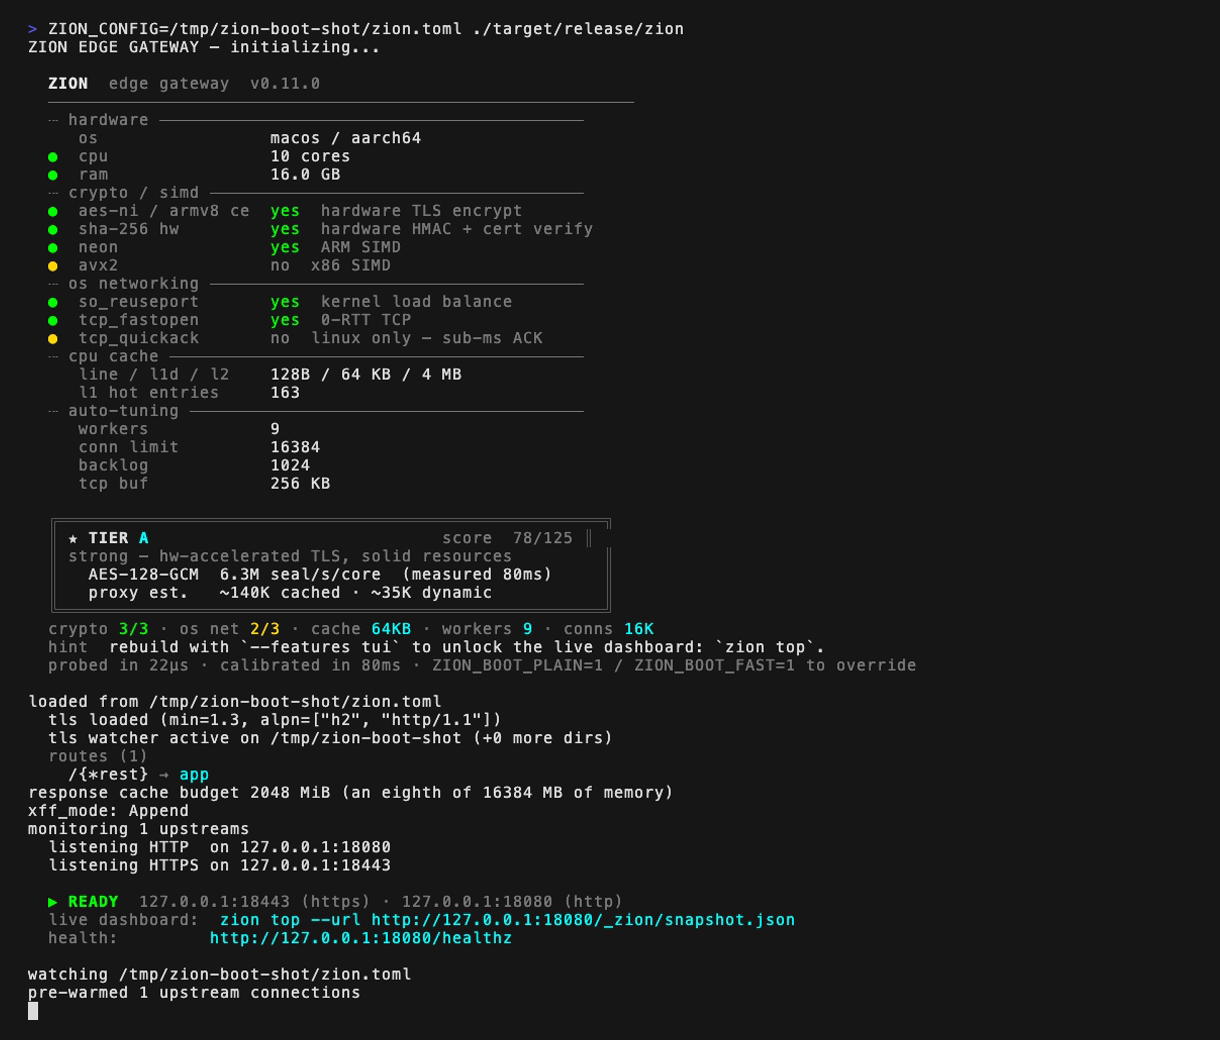
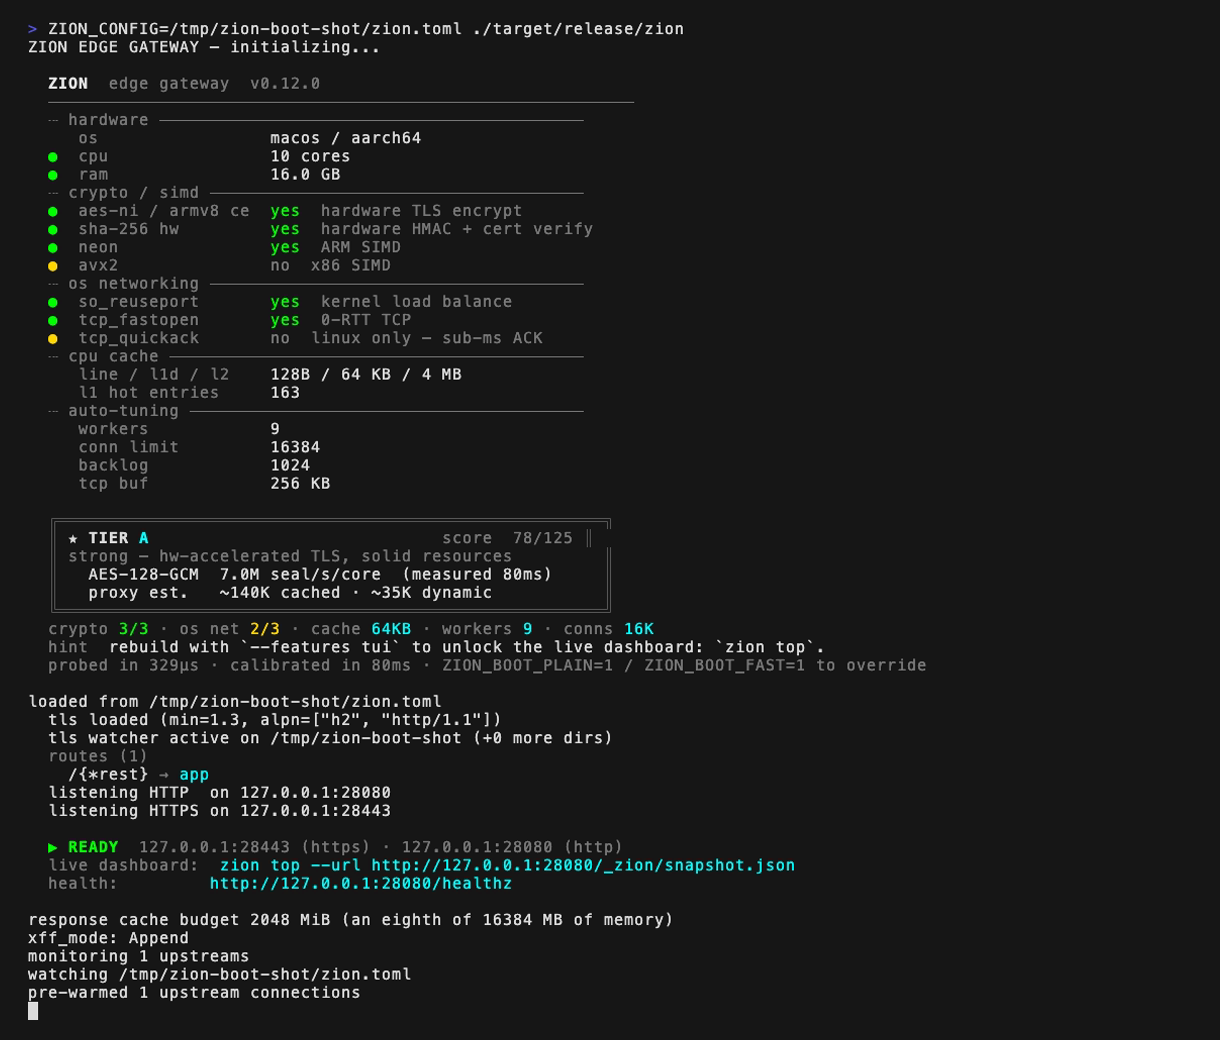
chore(release): v0.12.0 (#655)
Claude-Session: https://claude.ai/code/session_013XKgeQWDDWzaUzyphkKGAP

Changed region(s): [[0.0311, 0.7385, 0.6541, 0.9231], [0.1869, 0.6154, 0.7475, 0.6462], [0.1246, 0.6154, 0.1557, 0.6462]]

diff --git a/CHANGELOG.md b/CHANGELOG.md
@@ -4,6 +4,18 @@ All notable changes to Zion Edge Gateway are documented here.
 
 ## [Unreleased]
 
+## [0.12.0] - 2026-10-09
+
+**zion now answers 400 to an HTTP/1.1 request without `Host`, with two `Host` headers or with an invalid one: read the first upgrade note if anything of yours sends such requests.** The rest is CPU and tail latency, measured on a dedicated host against v0.11.0: serving files from disk, the access log and a proxied request cost less per request, and past 256 busy connections on a worker the extra connections are no longer served several times slower than the first 256.
+
+### Upgrade notes
+
+- **An HTTP/1.1 request without `Host`, with more than one, or with an invalid value now gets a 400 and the connection is closed** (RFC 9112 §3.2). A hand-written health probe or an old script that sends HTTP/1.1 without `Host` must add one. HTTP/1.0 may still omit it, and HTTP/2 and HTTP/3 are not affected.
+- **Headers named in a request's `Connection` header are no longer forwarded to the upstream** (RFC 9110 §7.6.1): `Connection: keep-alive, X-Remove-Me` now removes `X-Remove-Me`. If an upstream relied on receiving a header the client listed there, send it another way.
+- **Log lines reach stderr in batches, up to about 2 ms after they are logged.** A process killed outright (SIGKILL, power loss) can lose the last few lines; a clean shutdown and a panic still flush the queue first. `log_queue_lines` now bounds the lines not yet written, the batch being written included.
+- **The text log is no longer coloured when stderr is not a terminal** (or `NO_COLOR` is set). It was coloured whatever stderr was, so `docker logs`, journald and files carried escape sequences around every field; a parser that stripped them keeps working, one that matched on them needs updating. JSON logs were never coloured.
+- No setting was removed or renamed.
+
 ### Changed
 
 - **Serving files from disk (`mode = "static"`, no `precompressed`) is about a quarter cheaper per request, and steadier.** The route made seven calls to the blocking thread pool per request (canonicalize the root, canonicalize the file, stat, stat, open, read, close), and every hand-off costs more than the page-cache read it serves. It now resolves, opens and, for a plain GET of a small file, reads in one. On a single core a 28 KB page went from 114-155 µs to 88 µs of CPU per request and from 6.4-8.8k to 11.3k req/s (the old path varied 31% between two identical runs, the new one 0.3%); nginx with `open_file_cache` does the same file in 49 µs. No behaviour changes: the same checks run in the same order (inside the root, regular files only, no FIFO opened), and a request carrying `If-None-Match`, `If-Modified-Since` or `Range` still reads nothing before the validators are checked. Routes with `precompressed = true` keep their previous path.

diff --git a/docs/security/supply-chain.md b/docs/security/supply-chain.md
@@ -46,8 +46,8 @@ You need the GitHub CLI (`gh >= 2.49`) and `cosign >= 2.2`.
 
 ```bash
 # 1. Download the artifact + SHA256SUMS from the release page.
-gh release download v0.11.0 -R fabriziosalmi/zion \
-    -p 'zion-v0.11.0-x86_64-unknown-linux-musl.tar.gz' \
+gh release download v0.12.0 -R fabriziosalmi/zion \
+    -p 'zion-v0.12.0-x86_64-unknown-linux-musl.tar.gz' \
     -p 'SHA256SUMS' \
     -p 'zion-sbom.cdx.json'
 
@@ -55,7 +55,7 @@ gh release download v0.11.0 -R fabriziosalmi/zion \
 sha256sum --check --ignore-missing SHA256SUMS
 
 # 3. Verify the SLSA build provenance bound to the artifact's hash.
-gh attestation verify zion-v0.11.0-x86_64-unknown-linux-musl.tar.gz \
+gh attestation verify zion-v0.12.0-x86_64-unknown-linux-musl.tar.gz \
     --owner fabriziosalmi
 
 # Step 3 fails if:
@@ -78,7 +78,7 @@ grype zion-sbom.cdx.json
 ## Verifying a container image
 
 ```bash
-IMAGE=ghcr.io/fabriziosalmi/zion:v0.11.0
+IMAGE=ghcr.io/fabriziosalmi/zion:v0.12.0
 
 # 1. Pin to the digest immediately — tags are mutable, digests are not.
 DIGEST=$(crane digest "$IMAGE")
@@ -123,7 +123,7 @@ commit stamped into the version string (`ZION_GIT_SHA`, `ZION_COMMIT_DATE`),
 Linux musl artifact the same way:
 
 ```bash
-git checkout v0.11.0
+git checkout v0.12.0
 export SOURCE_DATE_EPOCH=$(git log -1 --pretty=%ct)
 export ZION_GIT_SHA=$(git rev-parse --short=12 HEAD)
 export ZION_COMMIT_DATE=$(git show -s --format=%cd --date=format:%Y-%m-%d HEAD)
@@ -138,12 +138,12 @@ sha256sum target/x86_64-unknown-linux-musl/release/zion
 the one inside the published archive:
 
 ```bash
-tar -xzOf zion-v0.11.0-x86_64-unknown-linux-musl.tar.gz zion | sha256sum
+tar -xzOf zion-v0.12.0-x86_64-unknown-linux-musl.tar.gz zion | sha256sum
 ```
 
 or recreate the archive with the same `tar` flags and compare it against
 `SHA256SUMS`. The toolchain is pinned end to end: Rust 1.88.0, `zig` 0.13.0 and
-`cargo-zigbuild` 0.23.4 (the versions that built v0.11.0; the workflow installs
+`cargo-zigbuild` 0.23.4 (the versions that built v0.12.0; the workflow installs
 exactly these), so a rebuild with the same versions should give the same bytes.
 
 A scheduled job, [`reproducibility.yml`](https://github.com/fabriziosalmi/zion/blob/master/.github/workflows/reproducibility.yml),

diff --git a/README.md b/README.md
@@ -321,12 +321,12 @@ Every release is signed and carries SLSA v1.0 build provenance — see
 
 ```bash
 # Binary release (Sigstore-backed provenance via gh CLI)
-gh release download v0.11.0 -R fabriziosalmi/zion -p '*x86_64-unknown-linux-musl*' -p 'SHA256SUMS'
+gh release download v0.12.0 -R fabriziosalmi/zion -p '*x86_64-unknown-linux-musl*' -p 'SHA256SUMS'
 sha256sum --check --ignore-missing SHA256SUMS
-gh attestation verify zion-v0.11.0-x86_64-unknown-linux-musl.tar.gz --owner fabriziosalmi
+gh attestation verify zion-v0.12.0-x86_64-unknown-linux-musl.tar.gz --owner fabriziosalmi
 
 # Container image (cosign keyless)
-cosign verify ghcr.io/fabriziosalmi/zion:v0.11.0 \
+cosign verify ghcr.io/fabriziosalmi/zion:v0.12.0 \
     --certificate-identity-regexp "^https://github.com/fabriziosalmi/zion/\\.github/workflows/release\\.yml@refs/tags/v" \
     --certificate-oidc-issuer "https://token.actions.githubusercontent.com"
 ```

diff --git a/docs/index.md b/docs/index.md
@@ -20,7 +20,7 @@ description: One auditable Rust binary at the edge — TLS 1.3 termination, a ze
     <aside class="ds-spec">
       <div class="cap">Specification</div>
       <dl>
-        <div class="ds-row"><dt>Version</dt><dd class="tnum">0.11.0</dd></div>
+        <div class="ds-row"><dt>Version</dt><dd class="tnum">0.12.0</dd></div>
         <div class="ds-row"><dt>Language</dt><dd>Rust · MSRV 1.82</dd></div>
         <div class="ds-row"><dt>Binary</dt><dd class="tnum">~4 MB · static</dd></div>
         <div class="ds-row"><dt>TLS proxy</dt><dd class="tnum">108<span class="u">k</span> req/s</dd></div>

diff --git a/.github/ISSUE_TEMPLATE/bug_report.md b/.github/ISSUE_TEMPLATE/bug_report.md
@@ -21,7 +21,7 @@ A clear and concise description of what you expected to happen.
 **Environment (please complete the following information):**
  - OS: [e.g. Linux, macOS]
  - Architecture: [e.g. arm64, amd64]
- - Zion Version: [e.g. 0.11.0]
+ - Zion Version: [e.g. 0.12.0]
 
 **Additional context**
 Add any other context about the problem here (e.g. logs with `RUST_LOG=trace`, upstream backend type like Go/Node).

diff --git a/SECURITY.md b/SECURITY.md
@@ -8,7 +8,7 @@ the current version.
 
 | Version | Supported |
 | ------- | --------- |
-| < 0.11.0 | No |
+| < 0.12.0 | No |
 
 Everything at or above that line is the current release. Stated as a single
 threshold on purpose — the previous wording carried a second, hardcoded row

diff --git a/docs/deploy/hot-reload.md b/docs/deploy/hot-reload.md
@@ -135,7 +135,7 @@ Two surfaces report the reload state:
 
   ```json
   {
-    "version": "0.11.0",
+    "version": "0.12.0",
     "timestamp_ms": 1714425600000,
     "uptime_secs": 3712,
     "config_generation": 5,
